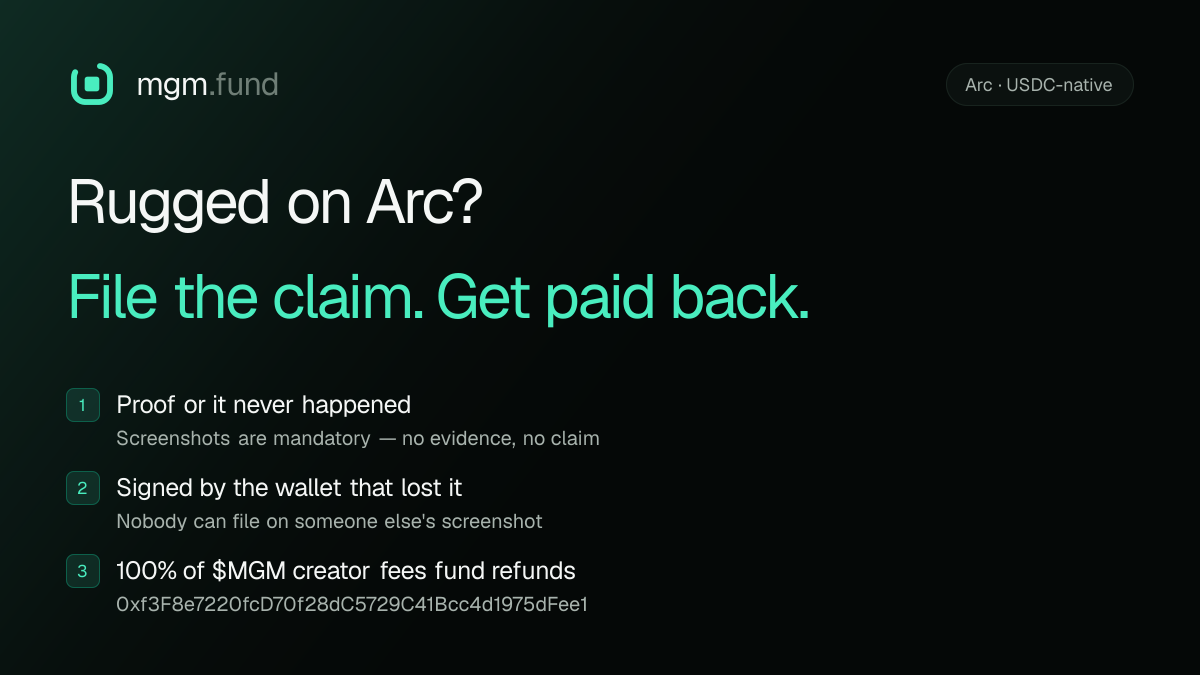
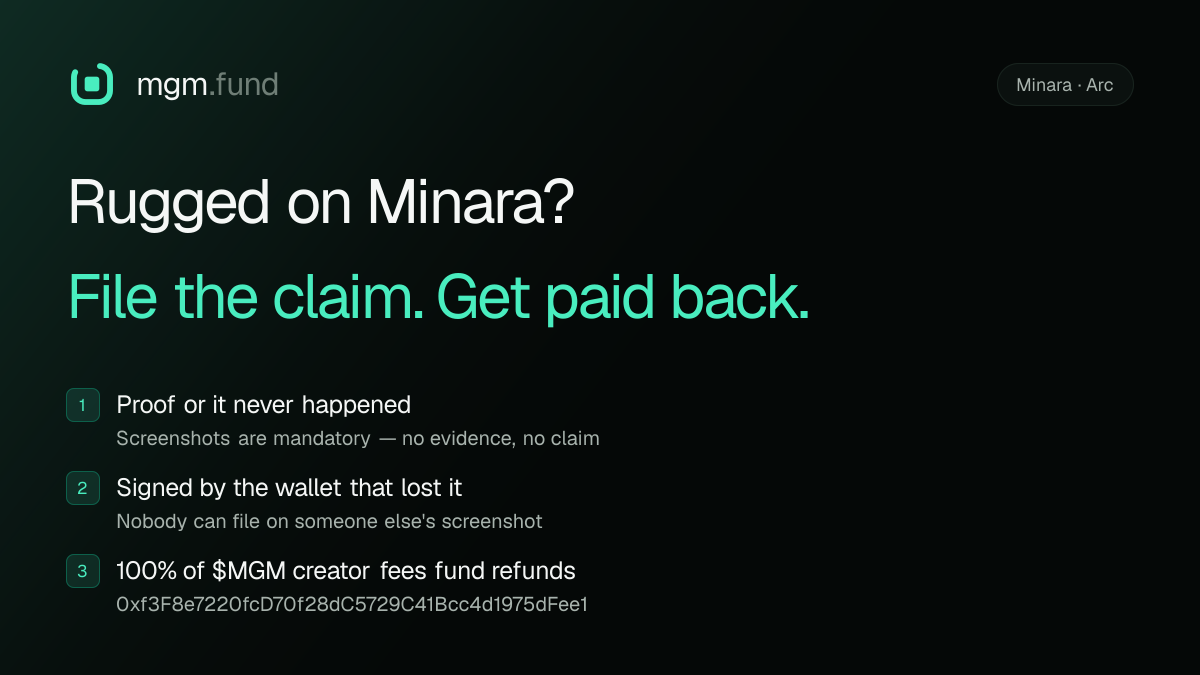
Say Minara, not Arc, wherever the copy means the launchpad
The claims are about tokens rugged on Minara; Arc is the chain those contracts
happen to live on. Positioning copy — hero, how-it-works, the form, the board
label, the social card, the launch card and the X header — now names Minara,
while the technical labels that describe an address stay Arc.

Changed region(s): [[0.3083, 0.2489, 0.4933, 0.3422], [0.8017, 0.0933, 0.925, 0.1556]]

diff --git a/app/how-it-works/page.tsx b/app/how-it-works/page.tsx
@@ -26,7 +26,7 @@ export default function HowItWorks() {
           Evidence first. Then noise.
         </h1>
         <p style={{ color: "var(--text-secondary)", fontSize: 15.5, lineHeight: 1.7, maxWidth: "66ch", margin: "0 0 40px" }}>
-          MGM is a public claim book for tokens launched on Arc. Anyone who lost money can file the
+          MGM is a public claim book for tokens launched on Minara. Anyone who lost money can file the
           case here — contract address, screenshots, and a signature from the wallet that actually took
           the loss. Nothing gets published without all three, and nothing gets deleted because a team
           asks nicely.
@@ -36,7 +36,7 @@ export default function HowItWorks() {
           <div className="step">
             <div className="n">01</div>
             <h3>Sign and file</h3>
-            <p>Connect MetaMask or Rabby, add the Arc contract, the amount and your screenshots, then sign the claim. One signature, no transaction, no gas, no account.</p>
+            <p>Connect MetaMask or Rabby, add the token contract, the amount and your screenshots, then sign the claim. One signature, no transaction, no gas, no account.</p>
           </div>
           <div className="step">
             <div className="n">02</div>

diff --git a/app/page.tsx b/app/page.tsx
@@ -41,7 +41,7 @@ export default async function Home({
           </h1>
 
           <p className="hero-sub">
-            Minara Get My Money is the public claim book for capital rugged on Arc. Post the contract,
+            Minara Get My Money is the public claim book for capital rugged on Minara. Post the contract,
             attach your screenshots and sign the claim with the wallet that took the loss — no proof and
             no signature means no claim, which is why the ones here are worth reading.
           </p>
@@ -70,7 +70,7 @@ export default async function Home({
               <div className="stat-v good">{usd(stats.totalRefunded)}</div>
             </div>
             <div className="stat">
-              <div className="stat-k">Arc contracts flagged</div>
+              <div className="stat-k">Contracts flagged</div>
               <div className="stat-v">{stats.projectsFlagged.toLocaleString("en-US")}</div>
             </div>
           </div>

diff --git a/app/opengraph-image.tsx b/app/opengraph-image.tsx
@@ -1,6 +1,6 @@
 import { ImageResponse } from "next/og";
 
-export const alt = "MGM — Minara Get My Money: evidence-first refund claims for tokens rugged on Arc";
+export const alt = "MGM — Minara Get My Money: evidence-first refund claims for tokens rugged on Minara";
 export const size = { width: 1200, height: 630 };
 export const contentType = "image/png";
 
@@ -62,7 +62,7 @@ export default function OpengraphImage() {
           </div>
 
           <div style={{ display: "flex", fontSize: 27, color: "#a8b3ad", maxWidth: 900, lineHeight: 1.45 }}>
-            The public claim book for capital rugged on Arc. Screenshots required, every claim signed
+            The public claim book for capital rugged on Minara. Screenshots required, every claim signed
             by the wallet that took the loss.
           </div>
         </div>

diff --git a/app/layout.tsx b/app/layout.tsx
@@ -15,10 +15,10 @@ export const metadata: Metadata = {
     template: "%s · mgm.fund",
   },
   description:
-    "Minara Get My Money is the public claim book for rugged capital. Post your case, attach proof, and let the market see who took the money.",
+    "Minara Get My Money is the public claim book for capital rugged on Minara. Post your case, attach proof, sign with the wallet that took the loss.",
   openGraph: {
     title: "MGM — Minara Get My Money",
-    description: "The public claim book for rugged capital. File your case with proof.",
+    description: "The public claim book for tokens rugged on Minara. File your case with proof.",
     type: "website",
   },
 };

diff --git a/app/brand/launch/route.tsx b/app/brand/launch/route.tsx
@@ -74,13 +74,13 @@ export async function GET() {
               color: "#a8b3ad",
             }}
           >
-            Arc · USDC-native
+            Minara · Arc
           </div>
         </div>
 
         <div style={{ display: "flex", flexDirection: "column", gap: 14 }}>
           <div style={{ display: "flex", fontSize: 62, fontWeight: 700, letterSpacing: -2.6, color: "#f5f7f6" }}>
-            Rugged on Arc?
+            Rugged on Minara?
           </div>
           <div style={{ display: "flex", fontSize: 62, fontWeight: 700, letterSpacing: -2.6, color: JADE }}>
             File the claim. Get paid back.

diff --git a/components/SubmitForm.tsx b/components/SubmitForm.tsx
@@ -195,10 +195,10 @@ export function SubmitForm() {
             <div className="field">
               <label className="label">Network</label>
               <span className="chain-lock">
-                <b>Arc</b> · USDC-native
+                <b>Minara</b> · Arc
                 <span className="lockicon">fixed</span>
               </span>
-              <div className="hint">MGM only takes claims against tokens launched on Arc.</div>
+              <div className="hint">MGM only takes claims against tokens launched on Minara.</div>
             </div>
 
             <div className="field">

diff --git a/app/brand/banner/route.tsx b/app/brand/banner/route.tsx
@@ -62,6 +62,10 @@ export async function GET() {
           Report the scam, prove the loss,&nbsp;<span style={{ color: JADE }}>claim the refund.</span>
         </div>
 
+        <div style={{ display: "flex", fontSize: 24, color: "#a8b3ad", marginTop: -8 }}>
+          Refund claims for tokens rugged on Minara
+        </div>
+
         <div style={{ display: "flex", alignItems: "center", gap: 14 }}>
           <div
             style={{

diff --git a/components/CaseBoard.tsx b/components/CaseBoard.tsx
@@ -66,7 +66,7 @@ export function CaseBoard(props: Props) {
 
         <div className="spacer" />
 
-        <span className="tag" style={{ height: 30 }}>Arc · USDC-native</span>
+        <span className="tag" style={{ height: 30 }}>Minara · Arc</span>
 
         <div className="view-toggle">
           <button onClick={() => setView("grid")} data-active={view === "grid"} aria-label="Grid view"><IconGrid /></button>

diff --git a/lib/types.ts b/lib/types.ts
@@ -1,6 +1,6 @@
 export type CaseStatus = "pending" | "reviewing" | "verified" | "refunded" | "rejected";
 
-/** MGM only accepts claims against tokens launched on Arc. */
+/** Tokens are launched on Minara, whose chain is Arc — the only network claims can name. */
 export type Chain = "arc";
 
 export type Category =

diff --git a/README.md b/README.md
@@ -1,6 +1,6 @@
 # MGM — Minara Get My Money
 
-**[mgm.fund](https://mgm.fund)** — a public claim book for capital rugged on **Arc**.
+**[mgm.fund](https://mgm.fund)** — a public claim book for capital rugged on **Minara**.
 
 Anyone who lost money on a token files a case with the contract address, the
 amount, **screenshot evidence** and a **wallet signature** proving the loss is
@@ -108,7 +108,7 @@ dead end. A claim reaching **100 backers** is escalated into review
   was signed under, so every case page re-verifies server-side on load — and
   renaming the site or moving domains never invalidates signatures collected
   earlier.
-- Arc only: contract addresses are `0x` + 40 hex.
+- Minara only, whose chain is Arc: contract addresses are `0x` + 40 hex.
 - One backing vote per visitor fingerprint; 5 claims/hour per visitor, 3 per wallet.
 
 ## Wallet support
